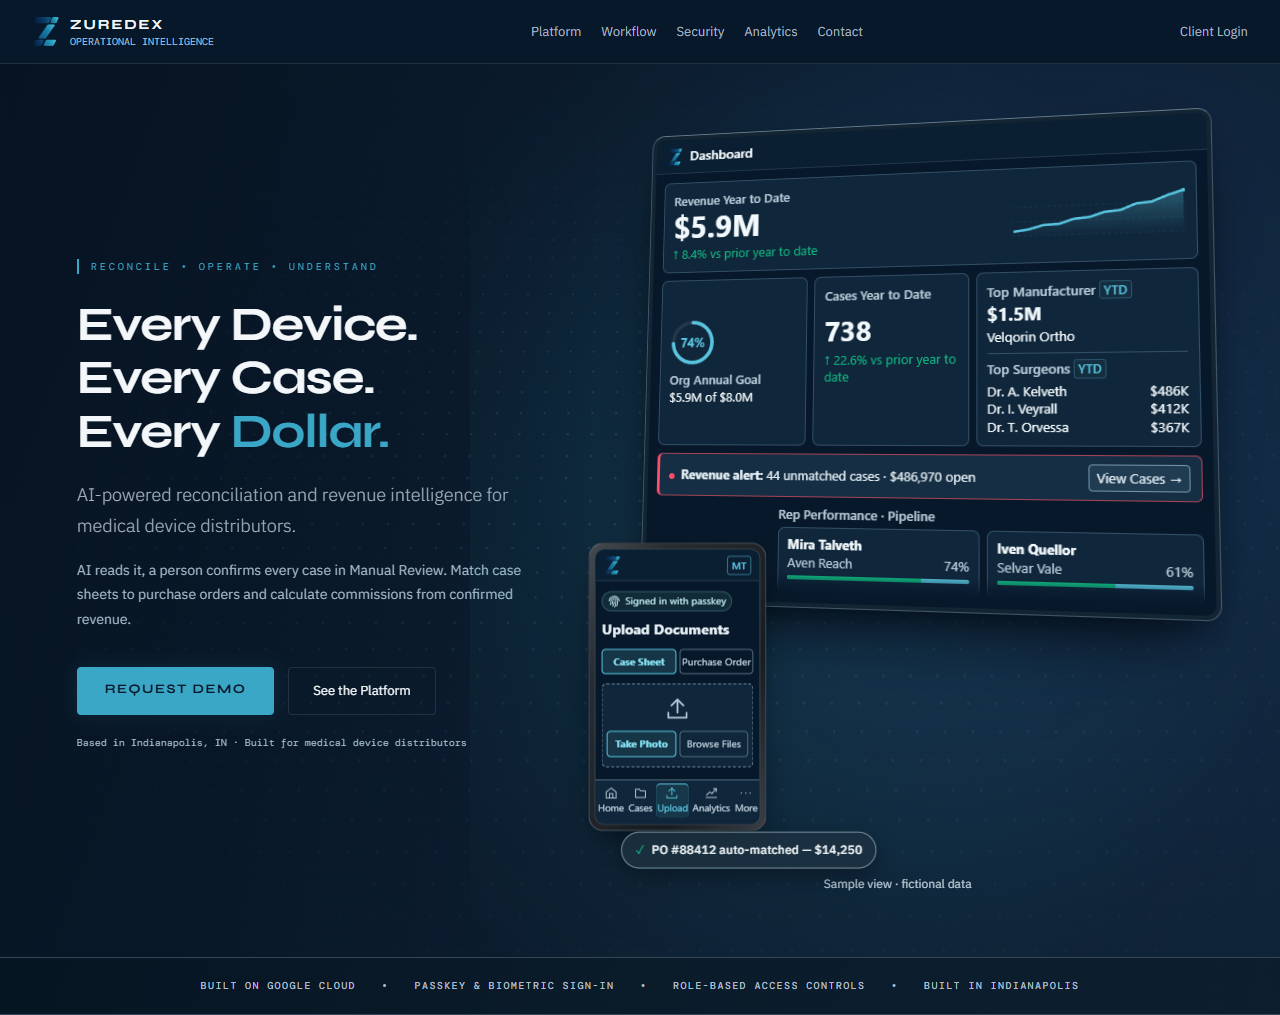
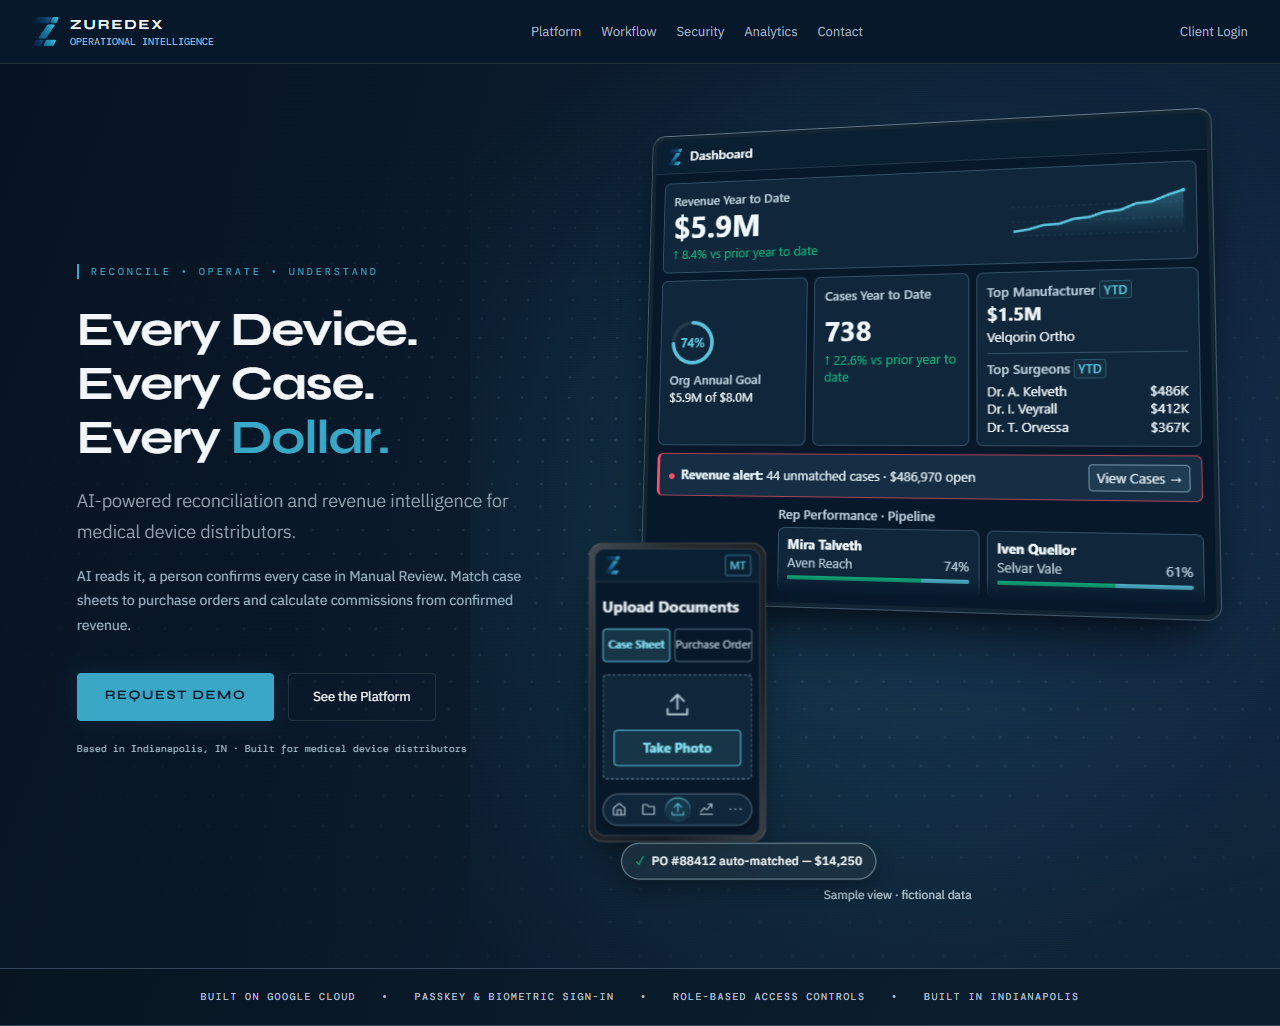
Simplify the upload phone and adapt the hero showcase by width

diff --git a/app/showcase.css b/app/showcase.css
@@ -138,7 +138,7 @@
   border-radius: 10px;
   background: #07182a;
   color: #e6eff4;
-  font: 10px/1.35 "Segoe UI", sans-serif;
+  font: 11px/1.35 "Segoe UI", sans-serif;
 }
 .phone-header {
   display: flex;
@@ -149,49 +149,40 @@
   background: #0b1f33;
 }
 .phone-avatar { padding: 2px 4px; color: var(--phone-cyan); border: 1px solid #34738b; border-radius: 3px; font-weight: 600; }
-.phone-content { display: grid; gap: 9px; padding: 10px 6px 12px; }
-.passkey-indicator {
-  display: inline-flex;
-  align-items: center;
-  justify-self: start;
-  gap: 4px;
-  padding: 2px 5px;
-  border: 1px solid #335666;
-  border-radius: 12px;
-  background: #112b39;
-  color: #b8e0e5;
-}
-.passkey-indicator svg { width: 13px; height: 13px; }
-.phone-title { font-size: 14px; }
-.phone-segments, .phone-actions { display: grid; grid-template-columns: 1fr 1fr; gap: 3px; }
-.phone-segments span, .phone-actions span {
-  padding: 5px 0;
+.phone-content { display: grid; gap: 12px; padding: 14px 7px; }
+.phone-title { font-size: 15px; }
+.phone-segments { display: grid; grid-template-columns: 1fr 1.12fr; gap: 4px; }
+.phone-segments span, .phone-photo {
+  padding: 8px 0;
   text-align: center;
   white-space: nowrap;
   border: 1px solid #526c7e;
   border-radius: 4px;
   color: #bdd0de;
 }
-.phone-segments span:first-child, .phone-actions span:first-child {
+.phone-segments span:first-child, .phone-photo {
   border-color: var(--phone-cyan);
   background: #163648;
   color: #85e1f1;
   font-weight: 700;
 }
-.phone-drop { display: grid; gap: 10px; padding: 12px 4px 9px; background: #10263b; border: 1px dashed #7292a8; border-radius: 5px; }
-.phone-drop > svg { width: 24px; justify-self: center; color: #b7cbd8; }
+.phone-drop { display: grid; gap: 12px; padding: 16px 10px 12px; background: #10263b; border: 1px dashed #7292a8; border-radius: 5px; }
+.phone-drop > svg { width: 26px; justify-self: center; color: #b7cbd8; }
+.phone-photo { font-size: 13px; }
 .phone-tabs {
   display: flex;
-  justify-content: space-around;
-  border-top: 1px solid #526c7e;
-  padding: 3px 0 6px;
+  justify-content: space-between;
+  margin: 0 7px 9px;
+  border: 1px solid #526c7e;
+  border-radius: 20px;
+  padding: 3px;
   background: #10263b;
+  box-shadow: 0 3px 7px #02091080;
   color: #bbcedb;
-  font-size: 9.5px;
 }
-.phone-tabs span { display: grid; justify-items: center; gap: 2px; padding: 3px 1px; }
-.phone-tabs svg { width: 13px; height: 13px; }
-.phone-active-tab { color: var(--phone-cyan); background: #17384a; border-radius: 4px; box-shadow: inset 0 1px var(--phone-cyan); }
+.phone-tabs span { display: grid; place-items: center; width: 25px; height: 24px; }
+.phone-tabs svg { width: 15px; height: 15px; }
+.phone-active-tab { color: var(--phone-cyan); background: #17384a; border-radius: 12px; box-shadow: inset 0 1px var(--phone-cyan); }
 .match-pill {
   grid-area: 4 / 1;
   justify-self: start;
@@ -232,7 +223,7 @@
   }
 }
 
-@media (max-width: 1000px) {
+@media (width < 1024px) {
   .hero-grid { grid-template-columns: minmax(0, 1fr); padding: 100px 24px 60px; gap: 40px; }
 }
 @media (max-width: 850px) {
@@ -246,9 +237,22 @@
 @container (max-width: 440px) {
   .dash-surgeons { display: none; }
 }
+@media (768px <= width < 1024px) {
+  .showcase-scene {
+    grid-template-columns: 186px minmax(0, 1fr);
+    grid-template-rows: auto auto;
+    padding: 16px 12px 16px 28px;
+  }
+  .dashboard-preview { grid-area: 1 / 2; margin-left: 0; }
+  .upload-phone { grid-area: 1 / 1; align-self: end; }
+  .match-pill { grid-area: 2 / 1 / auto / -1; }
+  .dash-pipeline { padding-left: 0; }
+}
 @media (width < 768px) {
-  .showcase-scene { grid-template-rows: auto 8px auto; }
-  .dashboard-preview { transform: none; margin-left: 8px; }
+  .showcase-scene { grid-template-rows: auto auto; }
+  .dashboard-preview { grid-area: 1 / 1; transform: none; margin-left: 0; }
+  .upload-phone { display: none; }
+  .match-pill { grid-area: 2 / 1; justify-self: center; max-width: 100%; margin: -12px 0 0; }
   .dash-kpis, .dash-pipeline { display: none; }
   .dash-spark { width: 32%; }
 }

diff --git a/components/SampleUploadPhone.tsx b/components/SampleUploadPhone.tsx
@@ -25,21 +25,17 @@ export default function SampleUploadPhone() {
           <span className="dash-symbol" /><span className="phone-avatar">{initials}</span>
         </div>
         <div className="phone-content">
-          <span className="passkey-indicator">
-            <PhoneIcon path="M3 11a9 9 0 0 1 18 0m-15 2v-2a6 6 0 0 1 12 0c0 4-.5 7-2 10M4 18c1-1.5 2-3 2-5m3 7c2-2.5 3-5.5 3-9m-4 6c1-2 1-3.5 1-6a3 3 0 0 1 6 0c0 5-1 8-2.5 11" />
-            Signed in with passkey
-          </span>
           <strong className="phone-title">Upload Documents</strong>
           <div className="phone-segments"><span>Case Sheet</span><span>Purchase Order</span></div>
           <div className="phone-drop">
             <PhoneIcon path="M12 16V3m-6 6 6-6 6 6M3 16v5h18v-5" />
-            <div className="phone-actions"><span>Take Photo</span><span>Browse Files</span></div>
+            <span className="phone-photo">Take Photo</span>
           </div>
         </div>
         <div className="phone-tabs">
           {tabs.map(tab => (
             <span key={tab.label} className={tab.label === "Upload" ? "phone-active-tab" : undefined}>
-              <PhoneIcon path={tab.path} />{tab.label}
+              <PhoneIcon path={tab.path} />
             </span>
           ))}
         </div>
